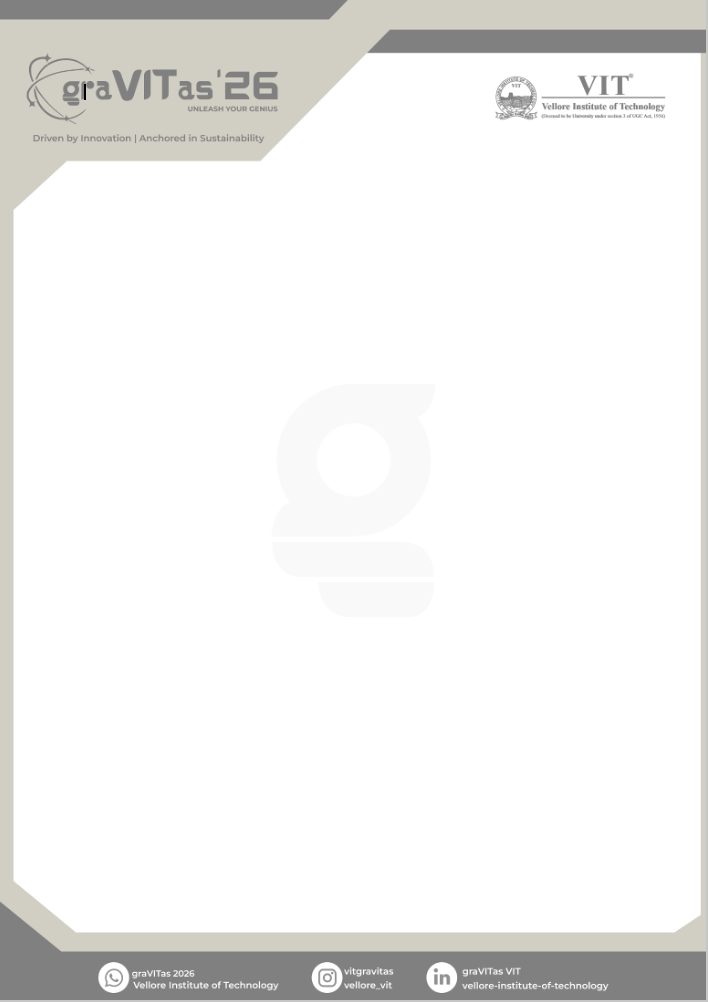
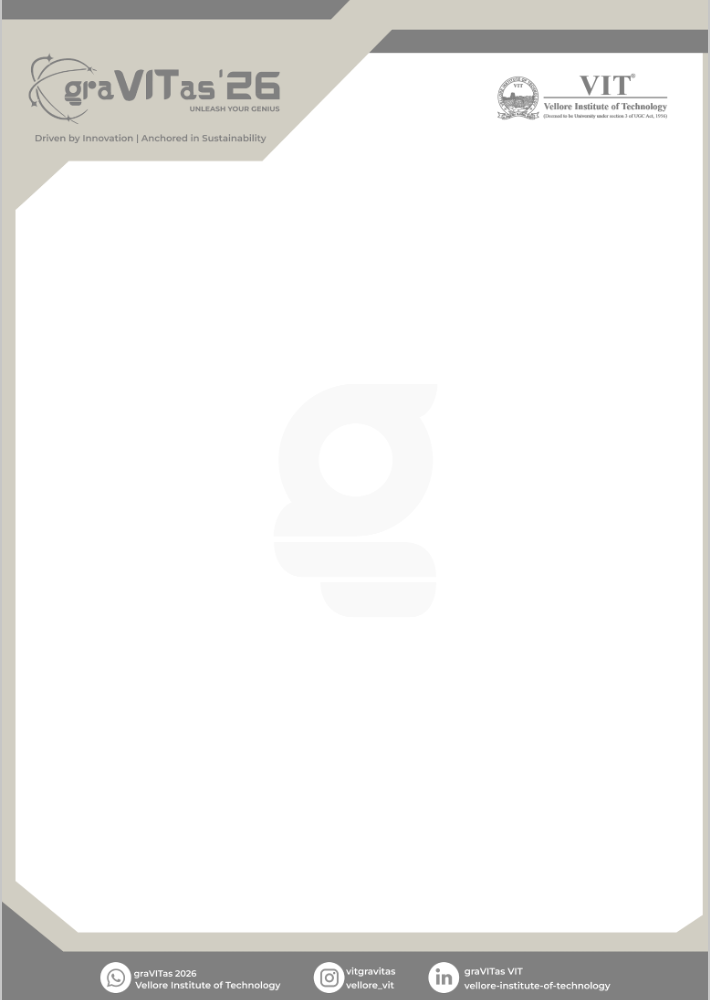
feat: integrate Gemini AI for smart item categorization

diff --git a/components/CompilationDashboard.tsx b/components/CompilationDashboard.tsx
@@ -26,6 +26,7 @@ export default function CompilationDashboard() {
   const isReadOnly = user?.role === 'view-only';
   const [links, setLinks] = useState('');
   const [isCompiling, setIsCompiling] = useState(false);
+  const [compilePhase, setCompilePhase] = useState('Generating...');
   const [compiledData, setCompiledData] = useState<CategorizedIndent | null>(null);
   const [compileErrors, setCompileErrors] = useState<string[]>([]);
   const [deductionMatches, setDeductionMatches] = useState<any[]>([]);
@@ -131,7 +132,73 @@ export default function CompilationDashboard() {
     setIsDeductionModalOpen(false);
   };
 
+  const enhanceWithAI = async (categories: CategorizedIndent): Promise<CategorizedIndent> => {
+    let allItems: CompiledItem[] = [];
+    Object.entries(categories).forEach(([key, items]) => {
+      if (key !== 'AmazonItems') {
+         allItems = [...allItems, ...items];
+      }
+    });
+
+    if (allItems.length === 0) return categories;
+
+    try {
+      setCompilePhase('AI Categorizing items...');
+      const apiRes = await fetch('/api/categorize', {
+        method: 'POST',
+        headers: { 'Content-Type': 'application/json' },
+        body: JSON.stringify({ items: allItems.map(i => i.name) })
+      });
+
+      if (!apiRes.ok) throw new Error('AI API Error');
+      
+      const aiResponse = await apiRes.json();
+      
+      const newCategories: CategorizedIndent = {
+        'Food / Provisions': [],
+        'Electricals & Hardware': [],
+        'Chemicals & Lab Supplies': [],
+        'Stationery': [],
+        'AmazonItems': [...categories.AmazonItems]
+      };
+
+      allItems.forEach(item => {
+        let placed = false;
+        for (const [aiCat, aiItems] of Object.entries(aiResponse)) {
+          if (Array.isArray(aiItems) && aiItems.includes(item.name)) {
+             if (newCategories[aiCat as keyof CategorizedIndent]) {
+               newCategories[aiCat as keyof CategorizedIndent].push(item);
+               placed = true;
+               break;
+             }
+          }
+        }
+        if (!placed) {
+          // Fallback
+          for (const [origCat, origItems] of Object.entries(categories)) {
+            if (origCat !== 'AmazonItems' && origItems.some((o: any) => o.name === item.name)) {
+              newCategories[origCat as keyof CategorizedIndent].push(item);
+              break;
+            }
+          }
+        }
+      });
+      
+      const sortFn = (a: any, b: any) => a.name.localeCompare(b.name);
+      newCategories['Stationery'].sort(sortFn);
+      newCategories['Food / Provisions'].sort(sortFn);
+      newCategories['Chemicals & Lab Supplies'].sort(sortFn);
+      newCategories['Electricals & Hardware'].sort(sortFn);
+      
+      return newCategories;
+    } catch (e) {
+      console.error('AI Categorization failed, falling back to local.', e);
+      return categories;
+    }
+  };
+
   const executeCompile = async (payloads: CompilePayload[]) => {
+    setCompilePhase('Generating...');
     try {
       const result = await compileData(payloads);
       
@@ -167,16 +234,16 @@ export default function CompilationDashboard() {
            // Resubmit both the originally successful (raw/base64) payloads and the new proxy-fetched raw payloads together
            const successfulOriginals = payloads.filter(p => !fallbackErrors.some(err => err.includes(p.content)));
            const retryResult = await compileData([...successfulOriginals, ...fallbackPayloads]);
-           await processInventoryMatch(retryResult.categories, [...normalErrors, ...retryResult.errors]);
+           await processInventoryMatch(await enhanceWithAI(retryResult.categories), [...normalErrors, ...retryResult.errors]);
            return;
         }
         
         // If all fallbacks failed, just show the normal errors
-        await processInventoryMatch(result.categories, normalErrors);
+        await processInventoryMatch(await enhanceWithAI(result.categories), normalErrors);
         return;
       }
 
-      await processInventoryMatch(result.categories, result.errors);
+      await processInventoryMatch(await enhanceWithAI(result.categories), result.errors);
     } catch (error) {
       console.error(error);
       setCompileErrors(['A fatal error occurred while compiling data.']);
@@ -267,7 +334,7 @@ export default function CompilationDashboard() {
               className="flex items-center px-8 py-3 bg-gradient-to-r from-purple-600 to-fuchsia-600 text-white font-bold rounded-xl shadow-lg shadow-fuchsia-500/20 hover:scale-105 transition-all disabled:opacity-50 disabled:hover:scale-100 w-full md:w-auto justify-center"
             >
               {isCompiling ? (
-                <><Loader2 className="w-5 h-5 mr-2 animate-spin" /> Generating...</>
+                <><Loader2 className="w-5 h-5 mr-2 animate-spin" /> {compilePhase}</>
               ) : (
                 <><FileSpreadsheet className="w-5 h-5 mr-2" /> Generate Indents</>
               )}

diff --git a/app/api/categorize/route.ts b/app/api/categorize/route.ts
@@ -1,0 +1,53 @@
+import { NextResponse } from 'next/server';
+
+export async function POST(req: Request) {
+  try {
+    const { items } = await req.json();
+
+    if (!items || !Array.isArray(items) || items.length === 0) {
+      return NextResponse.json({ error: 'Invalid items payload' }, { status: 400 });
+    }
+
+    const apiKey = process.env.GEMINI_API_KEY;
+    if (!apiKey) {
+      return NextResponse.json({ error: 'GEMINI_API_KEY not configured' }, { status: 500 });
+    }
+
+    const prompt = `Categorize each item in the list into strictly one of four categories: 'Stationery', 'Electricals', 'Chemicals', or 'Food / Provisions'. Return ONLY a valid JSON object where keys are the 4 category names and values are arrays of item names. Items: ${JSON.stringify(items)}`;
+
+    const response = await fetch(`https://generativelanguage.googleapis.com/v1beta/models/gemini-1.5-flash:generateContent?key=${apiKey}`, {
+      method: 'POST',
+      headers: {
+        'Content-Type': 'application/json',
+      },
+      body: JSON.stringify({
+        contents: [{
+          parts: [{ text: prompt }]
+        }],
+        generationConfig: {
+          response_mime_type: "application/json",
+        }
+      })
+    });
+
+    if (!response.ok) {
+      const errText = await response.text();
+      console.error('Gemini API Error:', errText);
+      return NextResponse.json({ error: 'Failed to fetch from Gemini API' }, { status: 500 });
+    }
+
+    const data = await response.json();
+    const resultText = data.candidates?.[0]?.content?.parts?.[0]?.text;
+    
+    if (!resultText) {
+      return NextResponse.json({ error: 'Invalid response from Gemini API' }, { status: 500 });
+    }
+
+    const parsed = JSON.parse(resultText);
+    return NextResponse.json(parsed);
+
+  } catch (error: any) {
+    console.error('API /categorize Error:', error);
+    return NextResponse.json({ error: error.message }, { status: 500 });
+  }
+}
